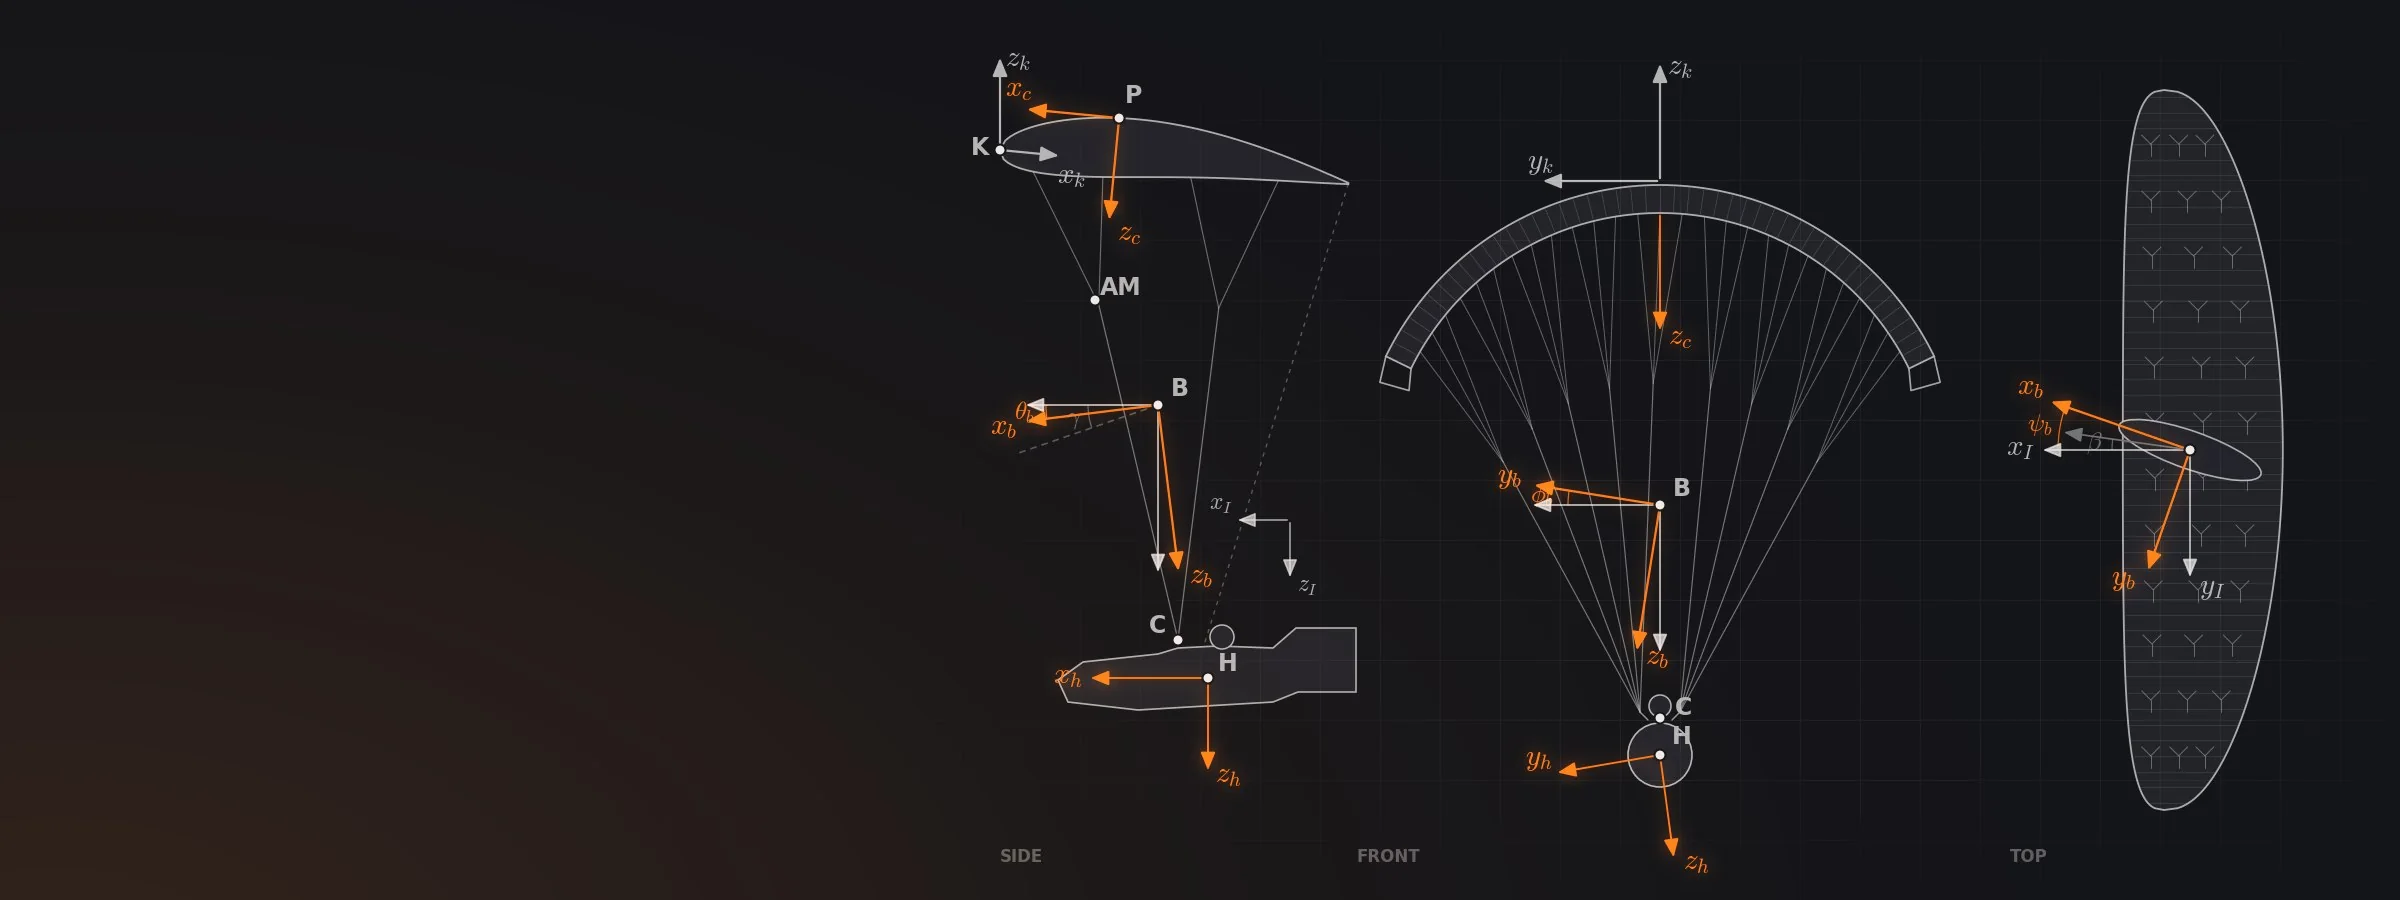
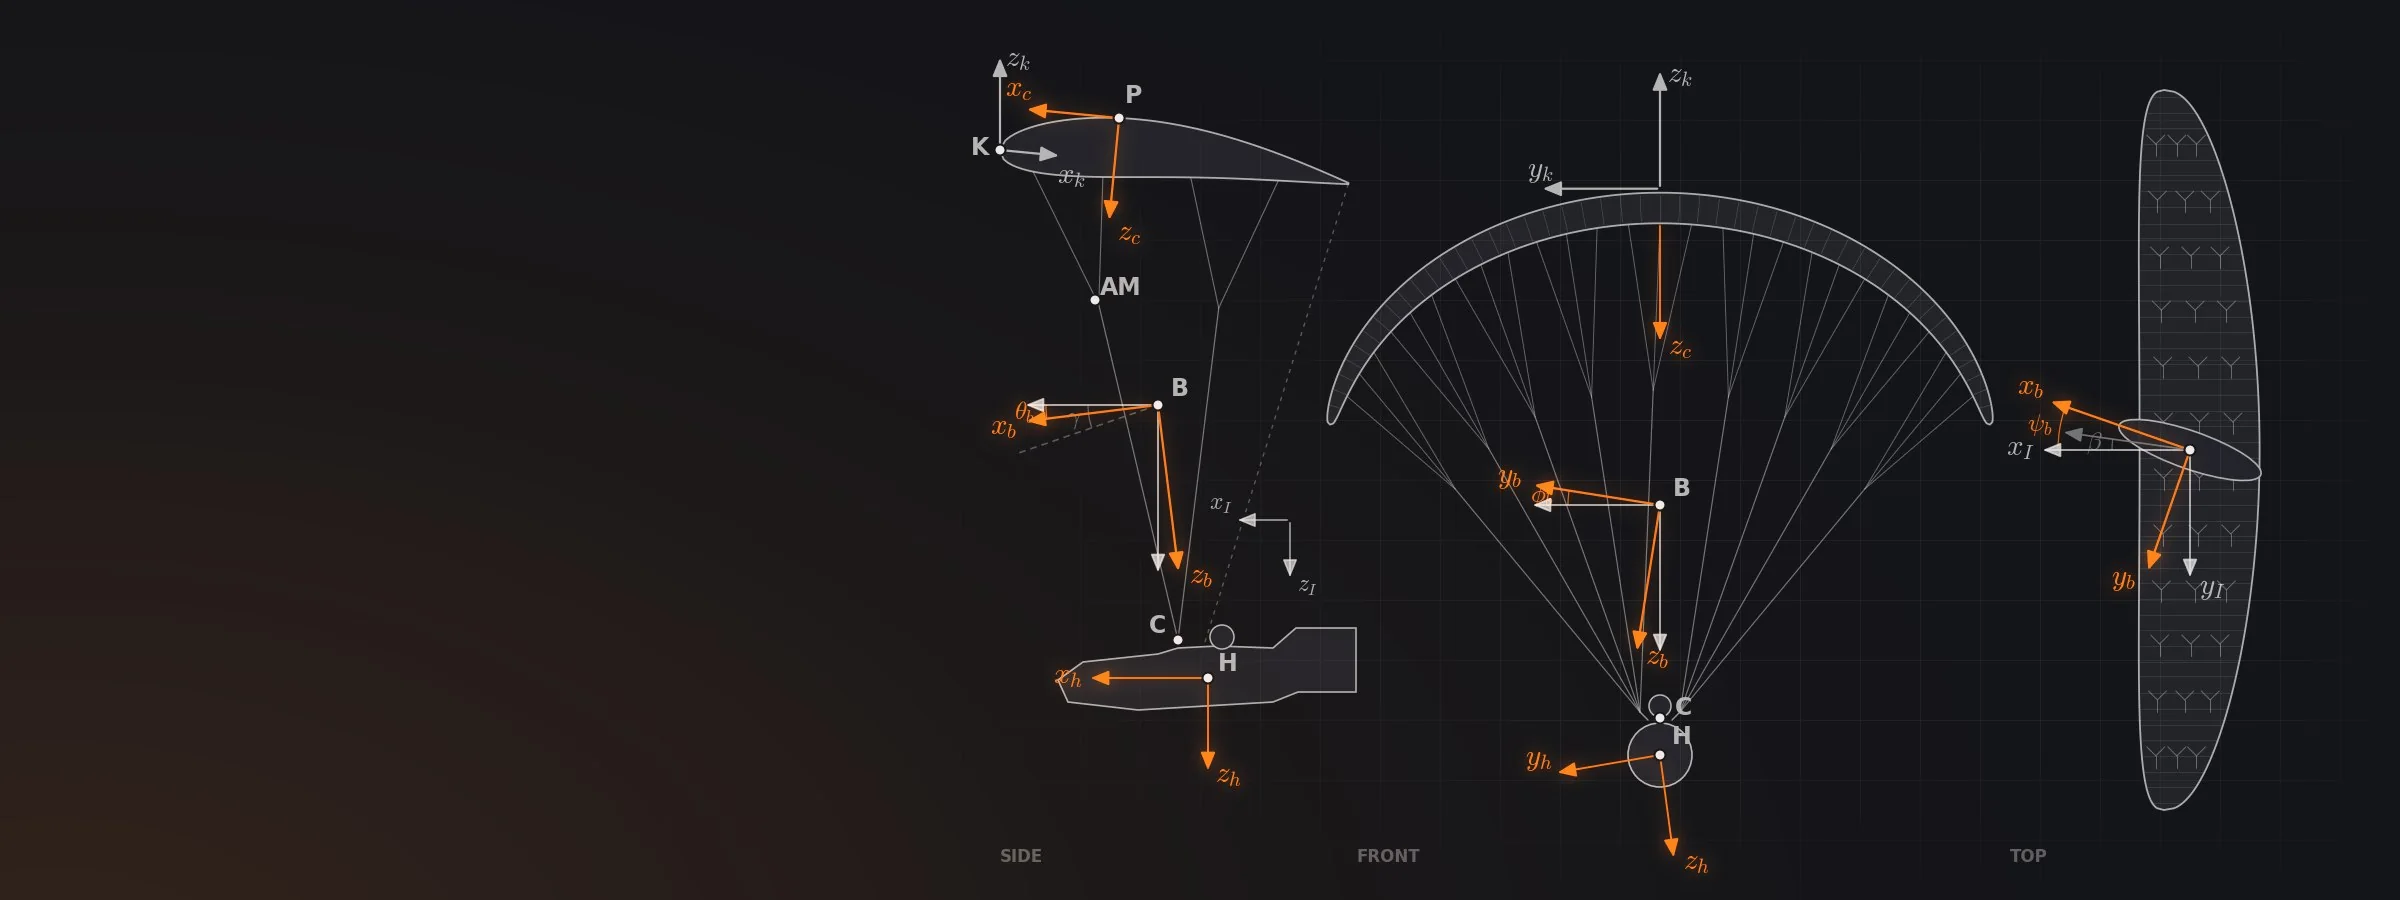
KB hero: elliptical canopy arc with tapered, rounded tips in the front view; planform chord reduced 25%

diff --git a/tools/make_kb_hero.py b/tools/make_kb_hero.py
@@ -62,22 +62,23 @@ for p_, l_, o_ in [(K, "K", (-20, -2)), (P, "P", (14, -22)), (B, "B", (22, -16))
 g0 = np.array([1290., 520.]); AR(g0, (-55, 0), WH, r"$x_I$", (-14, -16), lw=1.1, fs=17, a=0.7); AR(g0, (0, 60), WH, r"$z_I$", (18, 6), lw=1.1, fs=17, a=0.7)
 
 # ================= FRONT VIEW =================
-O = np.array([1660., 490.]); R1, R2 = 305, 277; TM = 64
-def arcpt(t, r): t = np.radians(t); return O + r*np.array([np.sin(t), -np.cos(t)])
-ts = np.linspace(-TM, TM, 200)
-outer = [arcpt(t, R1) for t in ts]; inner = [arcpt(t, R2) for t in ts[::-1]]
-ax.add_patch(Polygon(outer + inner, closed=True, fc=FILL, ec=GR, lw=1.3, alpha=0.95, zorder=3))
-for t in np.linspace(-TM + 3, TM - 3, 45): L([arcpt(t, R2 + 2), arcpt(t, R1 - 2)], lw=0.5, a=0.28, z=4)
-for sgn in (-1, 1):   # stabilo curl at the tips
-    a0 = arcpt(sgn*TM, R1); a1 = arcpt(sgn*TM, R2)
-    L([a0, a0 + np.array([sgn*6, 26]), a1 + np.array([sgn*2, 22]), a1], lw=1.2, a=0.9, z=4)
+O = np.array([1660., 470.]); EA, EB, TM, T0 = 335, 262, 80, 30   # elliptical arc, not circular
+def mid(t): t = np.radians(t); return O + np.array([EA*np.sin(t), -EB*np.cos(t)])
+def nrm(t):
+    t = np.radians(t); v = np.array([EB*np.sin(t), -EA*np.cos(t)]); return v/np.linalg.norm(v)
+def thk(t): return T0*np.clip(1 - (t/TM)**2, 0, 1)**0.38 + 0.6   # thins to a rounded, near-sharp tip
+def arcpt(t, side): return mid(t) + nrm(t)*side*thk(t)/2          # side +1 outer, -1 inner
+ts = np.linspace(-TM, TM, 400)
+outer = [arcpt(t, 1) for t in ts]; inner = [arcpt(t, -1) for t in ts[::-1]]
+ax.add_patch(Polygon(outer + inner, closed=True, fc=FILL, ec=GR, lw=1.3, alpha=0.95, zorder=3, joinstyle="round"))
+for t in np.linspace(-TM + 4, TM - 4, 47): L([arcpt(t, -0.85), arcpt(t, 0.85)], lw=0.5, a=0.28, z=4)
 rs = {-1: np.array([1640., 712.]), 1: np.array([1680., 712.])}
-att = np.linspace(-TM + 4, TM - 4, 27)
+att = np.linspace(-TM + 7, TM - 7, 27)
 for g in range(0, 27, 3):
     grp = att[g:g+3]; sd = 1 if grp.mean() > 0 else -1
-    pts = [arcpt(t, R2) for t in grp]; mid = rs[sd] + (np.mean(pts, 0) - rs[sd])*0.66
-    for p_ in pts: L([p_, mid], lw=0.7, a=0.5)
-    L([mid, rs[sd]], lw=0.85, a=0.6)
+    pts = [arcpt(t, -1) for t in grp]; mnode = rs[sd] + (np.mean(pts, 0) - rs[sd])*0.66
+    for p_ in pts: L([p_, mnode], lw=0.7, a=0.5)
+    L([mnode, rs[sd]], lw=0.85, a=0.6)
 Cf = np.array([1660., 718.]); Hf = np.array([1660., 755.])
 ax.add_patch(Circle(Hf, 32, fc=FILL, ec=GR, lw=1.2, zorder=3)); ax.add_patch(Circle(Cf + np.array([0, -12]), 11, fc=FILL, ec=GR, lw=1.1, zorder=3))
 for sd in (-1, 1): L([rs[sd], Cf + np.array([sd*12, 2])], lw=1.0, a=0.8)
@@ -85,13 +86,13 @@ Bf = np.array([1660., 505.]); PHI = 9
 AR(Bf, (-130, 0), WH, None, lw=1.3, a=0.75); AR(Bf, (0, 150), WH, None, lw=1.3, a=0.75)
 AR(Bf, rot((-130, 0), -PHI), OR, r"$y_b$", (-22, -8)); AR(Bf, rot((0, 150), -PHI), OR, r"$z_b$", (20, 4))
 ANG(Bf, 92, 180, 180 + PHI, OR, r"$\phi_b$", 26)
-top = arcpt(0, R1 + 4); AR(top, (0, -120), GR, r"$z_k$", (20, 6)); AR(top, (-120, 0), GR, r"$y_k$", (0, -18))
-AR(arcpt(0, R2), (0, 120), OR, r"$z_c$", (20, 4), lw=1.3)
+top = arcpt(0, 1) + np.array([0, -4]); AR(top, (0, -120), GR, r"$z_k$", (20, 6)); AR(top, (-120, 0), GR, r"$y_k$", (0, -18))
+AR(arcpt(0, -1), (0, 120), OR, r"$z_c$", (20, 4), lw=1.3)
 AR(Hf, (-105, 18), OR, r"$y_h$", (-16, -14), lw=1.3); AR(Hf, (14, 105), OR, r"$z_h$", (22, 2), lw=1.3)
 for p_, l_, o_ in [(Bf, "B", (22, -16)), (Cf, "C", (24, -10)), (Hf, "H", (22, -18))]: DOT(p_, l_, o_)
 
 # ================= TOP VIEW =================
-Q = np.array([2190., 450.]); HS = 360; CMX = 160
+Q = np.array([2190., 450.]); HS = 360; CMX = 120
 ys = np.linspace(-1, 1, 400)
 cy = CMX*np.clip(1 - ys**2, 0, 1)**0.42; le = Q[0] - 0.42*cy - 26*ys**2
 tev = le + cy; yy = Q[1] + HS*ys
